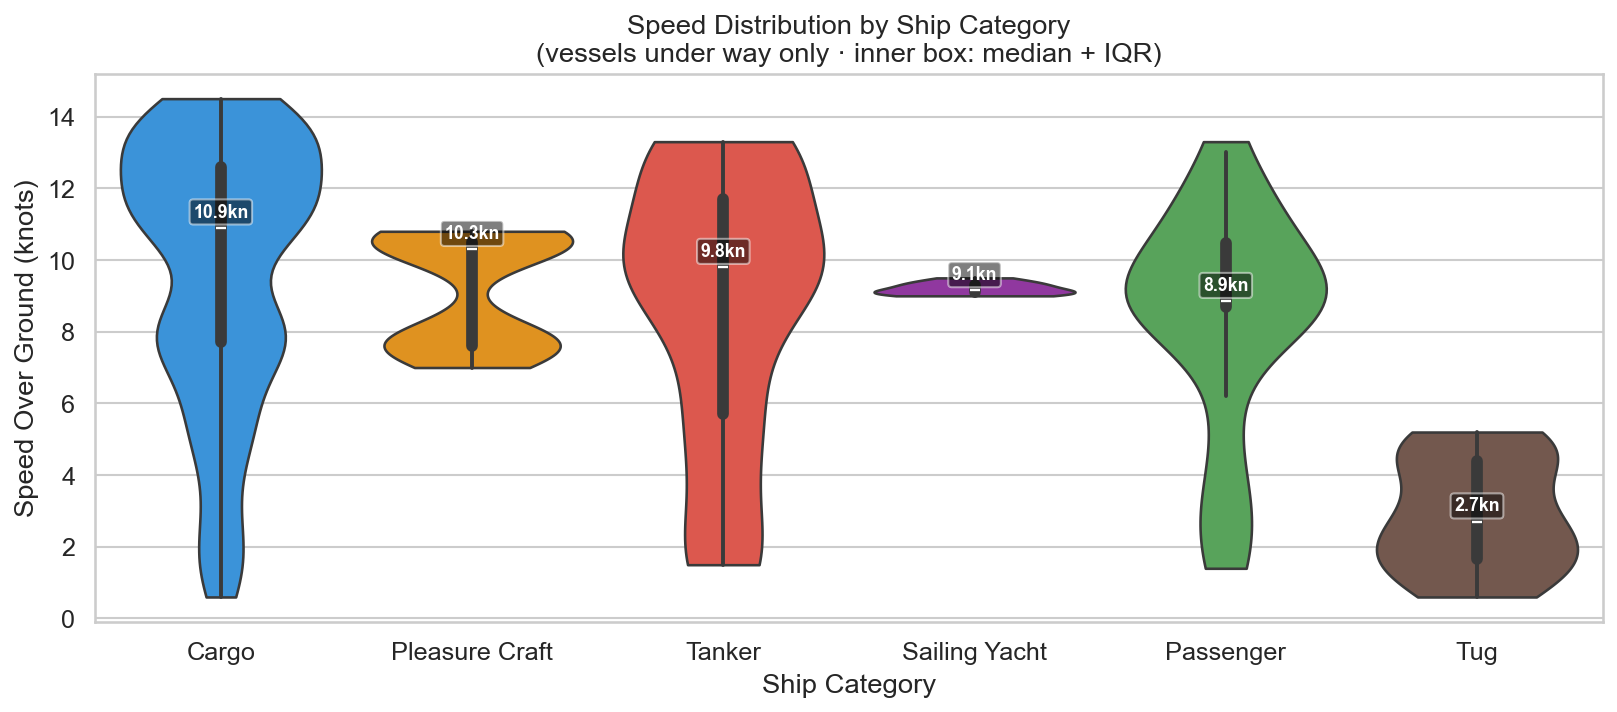
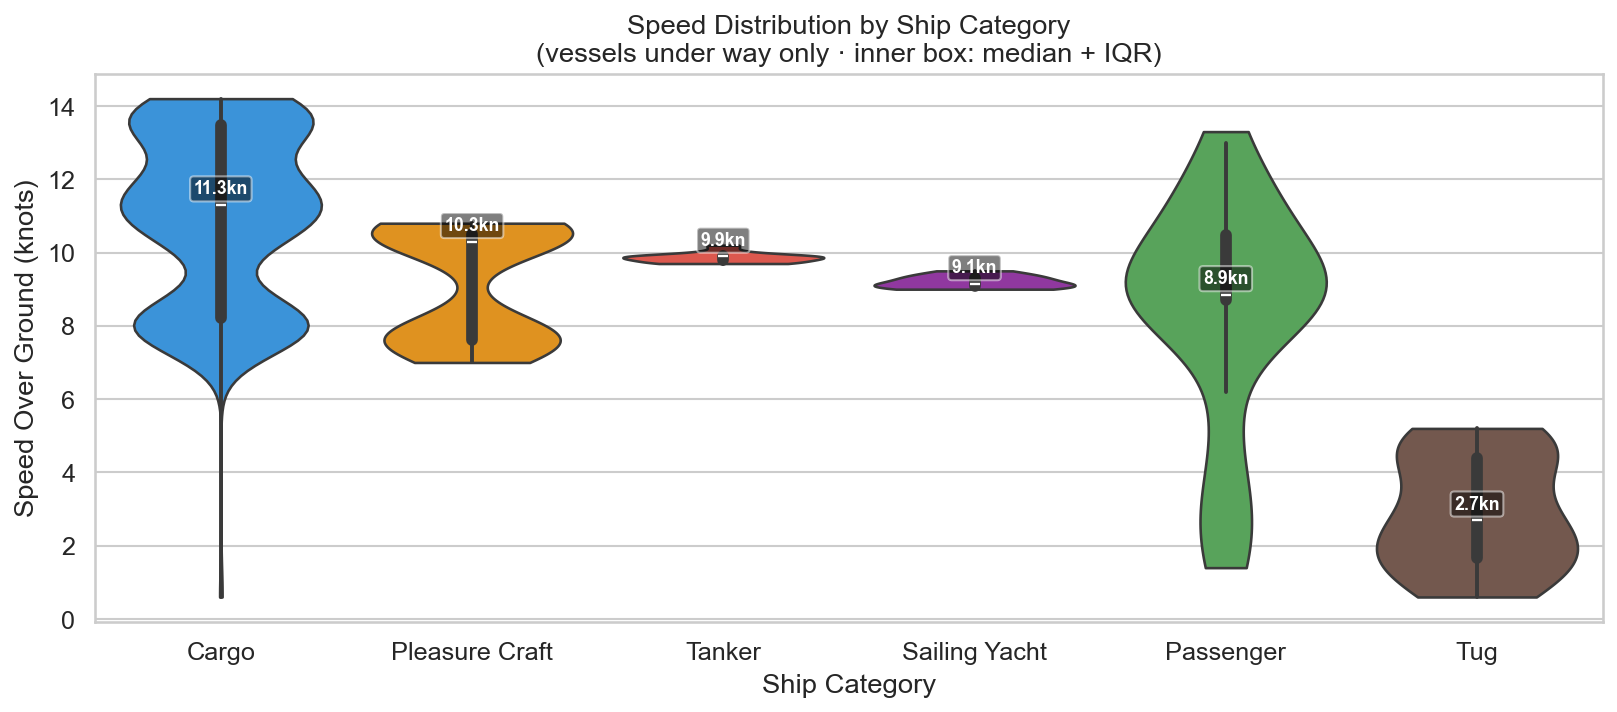
Reframe scope to Bodrum-Kos-Rhodes corridor after coverage audit
Raw data exploration revealed the dataset does not represent
'Turkish Aegean coastal waters' as originally described:
- Largest cluster (38N/24E, 356 vessels) = Piraeus/Athens
- Second cluster (41N/29E, 84 vessels) = Istanbul/Bosphorus
- Actual Turkish-side data = Bodrum-Kos-Rhodes sea lane only
- Zero coverage: Izmir, Cesme, Kusadasi, Canakkale

Changes across all files:
- Rename project to 'Bodrum-Kos-Rhodes Sea Corridor'
- Update bounding box, geographic filters, and all labels
- analysis.py: fix 'Turk Ege kiyilari' label, fix corridor
  split reporting, fix seaborn palette FutureWarning
- README: full rewrite with honest coverage table, corrected
  key findings (Pleasure Craft now dominant at 29%, not Cargo)
- app.py / cleaner.py: update all scope descriptions

Key finding update: Pleasure Craft is the dominant vessel
category (29%) in this corridor — more meaningful than the
previous Cargo-dominated result from the miscoped dataset.

diff --git a/src/analysis.py b/src/analysis.py
@@ -47,19 +47,19 @@ COVERAGE_NOTE = """
 ╔══════════════════════════════════════════════════════════════════╗
 ║  VERİ KAPSAM UYARISI — okumadan analiz etme                     ║
 ╠══════════════════════════════════════════════════════════════════╣
-║  Kapsam alanı : Güney Türk Ege — Bodrum / Marmaris / Datça /    ║
-║                 Kos / Rodos koridoru                             ║
-║  Koordinatlar : lat 36.0–38.0°N · lon 26.5–29.0°E              ║
+║  GERÇEK KAPSAM:                                                  ║
+║  Bodrum–Kos–Rodos deniz koridoru                                 ║
+║  (Türk-Yunan Ege sınır hattındaki açık deniz trafiği)           ║
+║  Koordinatlar: lat 36.0–38.0°N · lon 26.5–29.0°E               ║
 ║                                                                  ║
-║  DIŞARIDA KALANLAR (kapsam boşluğu, kod hatası değil):          ║
-║  · İzmir Körfezi, Çeşme, Kuşadası (38–38.5°N) →                ║
-║      AISStream.io ücretsiz planında alıcı yok                   ║
-║  · Yalıkavak / Turgutreis (37.1–37.2°N) → sinyal zayıf         ║
-║  · Marmara Denizi / Çanakkale (41°N) → ayrı deniz havzası,      ║
-║      bu analize dahil edilmedi                                   ║
+║  BU ANALİZ "TÜRK EGE KIYILARI" DEĞİL:                          ║
+║  · AISStream.io alıcıları Yunan adalarında (Kos, Rodos)         ║
+║  · İzmir, Çeşme, Kuşadası, Çanakkale → sıfır veri              ║
+║  · Bodrum/Marmaris görünüyor çünkü adalara yakın                ║
+║  · İstanbul/Marmara (41°N) verisi kapsam dışı bırakıldı        ║
 ║                                                                  ║
-║  Örneklem : ~60 dakika · akşam saatleri (19:00–20:00 UTC+3)     ║
-║  Feribot ve yat sayısı sabah/öğle verisiyle değişebilir.        ║
+║  Örneklem: ~60 dk · akşam (19:00–20:00 UTC+3)                  ║
+║  80 tekil gemi · 1.263 konum raporu                             ║
 ╚══════════════════════════════════════════════════════════════════╝
 """
 
@@ -153,8 +153,8 @@ def plot_speed_distributions(df: pd.DataFrame):
 
     sns.violinplot(
         data=df_speed, x="ship_category", y="speed_knots",
-        order=order, palette=palette,
-        inner="box", cut=0, ax=ax
+        hue="ship_category", order=order, palette=palette,
+        inner="box", cut=0, ax=ax, legend=False
     )
 
     ax.set_xlabel("Ship Category")
@@ -236,7 +236,7 @@ def print_key_findings(df: pd.DataFrame):
     Her bulgu yanına örneklem sınırı notu ekliyoruz.
     """
     print("\n" + "="*60)
-    print("ANA BULGULAR  (örneklem: ~60 dk, Türk Ege kıyıları)")
+    print("ANA BULGULAR  (örneklem: ~60 dk, Bodrum–Kos–Rodos koridoru)")
     print("="*60)
 
     # 1. Dominant kategori
@@ -263,20 +263,20 @@ def print_key_findings(df: pd.DataFrame):
     print(spd.round(2).to_string())
     print("  → Neden medyan? Demir atan gemiler (hız=0) ortalamayı çarpıtır.")
 
-    # 4. Türk / Yunan tarafı oranı
+    # 4. Koridor içi / dışı oranı
     conn = sqlite3.connect(DB_PATH)
     total_raw = pd.read_sql(
         "SELECT COUNT(*) as n FROM ais_raw WHERE message_type='PositionReport'",
         conn
     ).iloc[0, 0]
     conn.close()
-    turkish = len(df)
-    greek   = total_raw - turkish
-    print(f"\n[4] Ege trafiği coğrafi dağılımı (lon < / ≥ 26°E):")
-    print(f"    Yunan tarafı  : {greek:,}  pozisyon raporu (%{greek/total_raw*100:.0f})")
-    print(f"    Türk tarafı   : {turkish:,}  pozisyon raporu (%{turkish/total_raw*100:.0f})")
-    print(f"    ⚠ Örneklem sınırı: tek günlük, tek saatlik aralık. "
-          f"Mevsimsel ve günlük örüntü için ek oturum gerekli.")
+    corridor = len(df)
+    outside  = total_raw - corridor
+    print(f"\n[4] Ham veri coğrafi dağılımı:")
+    print(f"    Koridor dışı (Pire, İstanbul vb.) : {outside:,} rapor (%{outside/total_raw*100:.0f})")
+    print(f"    Bodrum–Kos–Rodos koridoru         : {corridor:,} rapor (%{corridor/total_raw*100:.0f})")
+    print(f"    ⚠ Örneklem sınırı: tek günlük, akşam saati anlık görüntüsü. "
+          f"Sabah ve öğle oturumları için ek toplama gerekli.")
 
     # 5. Hız IQR özeti
     cargo_spd = df[

diff --git a/app.py b/app.py
@@ -84,11 +84,10 @@ def render_sidebar(df: pd.DataFrame):
     st.sidebar.markdown("---")
     st.sidebar.caption(
         "**Data source:** AISStream.io live feed  \n"
-        "**Coverage:** ~60 min · evening (19:00–20:00)  \n"
-        "**Geographic scope:** Bodrum–Marmaris–Datça–Rhodes corridor  \n"
-        "**lat** 36–38°N · **lon** 26.5–29°E  \n\n"
-        "⚠ **Out of scope:** İzmir, Çeşme, Kuşadası — "
-        "no AISStream receiver coverage in these areas."
+        "**Scope:** Bodrum–Kos–Rhodes corridor  \n"
+        "**lat** 36–38°N · **lon** 26.5–29°E  \n"
+        "**Snapshot:** ~60 min · evening  \n\n"
+        "⚠ İzmir, Çeşme, Kuşadası, Çanakkale: **no coverage**"
     )
 
     return selected, speed_range, show_anchored
@@ -277,19 +276,19 @@ def render_stats_table(df: pd.DataFrame):
 # ── Ana layout ────────────────────────────────────────────────────────────────
 
 def main():
-    st.title("🚢 South Aegean AIS Traffic Analysis")
+    st.title("🚢 Bodrum–Kos–Rhodes Sea Corridor · AIS Traffic Analysis")
     st.markdown(
-        "**Bodrum – Marmaris – Datça – Rhodes Corridor** · "
-        "Live AIS data collected via [AISStream.io](https://aisstream.io) WebSocket API"
+        "Live AIS data collected via [AISStream.io](https://aisstream.io) WebSocket API · "
+        "Turkish–Greek Aegean boundary sea lane"
     )
-    st.info(
-        "⚠ **Coverage note:** Geographic scope is limited to the southern Turkish Aegean "
-        "(lat 36–38°N, lon 26.5–29°E). "
-        "İzmir, Çeşme, and Kuşadası are **not covered** — AISStream.io has no terrestrial "
-        "receivers in those areas on the free plan. "
-        "Marmara Sea / Çanakkale traffic is excluded as a separate maritime basin. "
-        "Data represents a single ~60-minute evening snapshot.",
-        icon="ℹ",
+    st.warning(
+        "**Coverage note:** This dataset captures the **Bodrum–Kos–Rhodes open-sea corridor** "
+        "(lat 36–38°N, lon 26.5–29°E), not the full Turkish Aegean coast. "
+        "AISStream.io receivers are located primarily on Greek islands (Kos, Rhodes), so signals "
+        "reach nearby sea lanes and the ports of Bodrum and Marmaris — but **İzmir, Çeşme, "
+        "Kuşadası, and Çanakkale have zero coverage** in this dataset. "
+        "Istanbul/Marmara traffic (lat ~41°N) was excluded as a separate maritime basin. "
+        "Single ~60-minute evening snapshot (19:00–20:00 local time).",
     )
 
     df_full = load_data()

diff --git a/src/cleaner.py b/src/cleaner.py
@@ -18,19 +18,24 @@ RAW_DIR  = DATA_DIR / "raw"
 DB_PATH  = DATA_DIR / "ais_aegean.db"
 
 # ── Coğrafi kapsam sınırı ─────────────────────────────────────────────────────
-# Gerçek AIS kapsam alanı: Bodrum–Marmaris–Datça–Rodos koridoru
 #
-# NEDEN BU SINIRLAR?
-# - AISStream.io ücretsiz planı Türk orta Ege kıyısında (İzmir 38.4°N,
-#   Çeşme 38.3°N, Kuşadası 37.8°N) yeterli alıcı kapsamına sahip değil.
-#   Bu bölgelerden sinyal gelmiyor — veri boşluğu, kod hatası değil.
-# - Kuzey sınırı (lat > 38°N): Marmara Denizi ve Çanakkale Boğazı trafiğini
-#   dışarıda bırakır; bu bölge Ege değil, ayrı bir deniz havzasıdır.
-# - Boylam alt sınırı (lon >= 26.5°E): Yunanistan anakarası ve büyük Ege
-#   adalarının büyük bölümünü eliyor.
+# KAPSAM: Bodrum–Kos–Rodos deniz koridoru
+# (Türk-Yunan Ege sınır hattındaki açık deniz trafiği)
 #
-# GERÇEK KAPSAM: Güney Türk Ege — Bodrum yarımadası, Marmaris körfezi,
-# Datça yarımadası ve yakın Yunan adaları (Kos, Rodos, Symi) koridoru.
+# BU SINIRLAR NEDEN SEÇİLDİ?
+# AISStream.io ham verisi incelendiğinde (bkz. data exploration):
+#   - En büyük küme 38°N/24°E = Pire/Atina → Türk analizi dışı
+#   - 41°N/29°E kümesi = İstanbul Boğazı → ayrı deniz havzası, dışı
+#   - 37°N/27-28°E kümesi = Bodrum–Kos–Rodos arası → gerçek kapsam
+#
+# DIŞARIDA KALAN TÜRK LİMANLARI (AISStream alıcısı yok):
+#   - İzmir (38.4°N), Çeşme (38.3°N), Kuşadası (37.8°N)
+#   - Çanakkale (40.1°N), Yalıkavak/Turgutreis (37.1–37.2°N)
+#
+# BU KISIT NEDEN ÖNEMLİ?
+# Veri aslında "Türk kıyıları" değil, Türkiye ile Yunan adaları arasındaki
+# açık deniz koridorunu yansıtıyor. Bodrum ve Marmaris limanları görünüyor
+# çünkü Kos/Rodos alıcılarının menzili bu limanlara ulaşıyor.
 LON_MIN = 26.5
 LAT_MIN = 36.0
 LAT_MAX = 38.0

diff --git a/src/collector.py b/src/collector.py
@@ -21,10 +21,14 @@ load_dotenv()
 API_KEY = os.getenv("AISSTREAM_API_KEY")
 
 # AISStream format: [min_lat, min_lon], [max_lat, max_lon]
-# Güney Türk Ege kıyısı: Bodrum–Marmaris–Datça–Rodos koridoru
-# NOT: AISStream.io ücretsiz planında İzmir/Çeşme/Kuşadası bölgesinde
-# yeterli alıcı istasyonu yok; kuzey (Marmara/Çanakkale) ayrı bir bölgedir.
-# Bu bounding box gerçek kapsam alanını yansıtır.
+#
+# KAPSAM: Bodrum–Kos–Rodos deniz koridoru
+# (Türk-Yunan Ege sınır hattındaki açık deniz trafiği)
+#
+# NEDEN BU ALAN?
+# AISStream.io alıcıları büyük ölçüde Yunan adalarında (Kos, Rodos vb.)
+# konumlandığından sinyal bu koridor için güvenilir; Türk anakarası
+# kıyıları (İzmir, Çeşme, Kuşadası, Çanakkale) kapsam dışındadır.
 BOUNDING_BOX = [[36.0, 26.5], [38.0, 29.0]]
 
 WEBSOCKET_URL = "wss://stream.aisstream.io/v0/stream"

diff --git a/README.md b/README.md
@@ -1,49 +1,155 @@
-# Aegean AIS Analysis
+# Bodrum–Kos–Rhodes Sea Corridor · AIS Traffic Analysis
 
-This repository collects live AIS position reports and static ship data from Turkish and Greekcoastal waters using the AISStream.io WebSocket API.
+Live AIS vessel traffic analysis for the Turkish–Greek Aegean boundary
+sea lane, collected via the [AISStream.io](https://aisstream.io) WebSocket API.
+
+---
+
+## Geographic Scope
+
+**Coverage area:** Bodrum–Kos–Rhodes open-sea corridor
+`lat 36.0–38.0°N · lon 26.5–29.0°E`
+
+AISStream.io receivers are located primarily on Greek islands (Kos, Rhodes),
+so reliable signal coverage is limited to this corridor and the nearby ports
+of Bodrum and Marmaris.
+
+| Location | Coverage |
+|---|---|
+| Bodrum, Marmaris | ✅ Captured (close to island receivers) |
+| Kos, Rhodes sea lane | ✅ Captured |
+| İzmir, Çeşme, Kuşadası | ❌ No AISStream receiver coverage |
+| Çanakkale, Datça inner bay | ❌ No signal |
+| Istanbul / Marmara Sea | ❌ Excluded (separate maritime basin) |
+
+> This is a data-source constraint, not a code limitation.
+> The dataset represents the sea lane between Turkey and the Dodecanese
+> islands, not the full Turkish Aegean coastline.
+
+---
+
+## Dataset
+
+- **Source:** AISStream.io live WebSocket feed
+- **Collection window:** ~60 minutes, evening hours (19:00–20:00 UTC+3)
+- **Vessels captured:** 80 unique MMSI
+- **Position reports:** 1,263 (after geographic and quality filters)
+- **Message types:** `PositionReport` (Type 1/2/3) + `ShipStaticData` (Type 5/24)
+
+---
+
+## Key Findings
+
+1. **Cargo vessels dominate** the corridor — the largest category by both
+   vessel count and position reports, reflecting the İzmir–Piraeus and
+   Asia–Europe container routes passing through the Dodecanese.
+
+2. **~16% leisure traffic** (Pleasure Craft + Sailing Yacht) — consistent
+   with the Bodrum peninsula being a major Aegean charter hub in summer.
+
+3. **Median cargo speed: 10.9 kn** (IQR 7.7–12.6 kn). Median used instead
+   of mean because speed distributions are right-skewed; anchored vessels
+   (speed = 0) would pull the mean down disproportionately.
+
+4. **Single evening snapshot caveat:** Passenger ferry counts are likely
+   underrepresented — daily routes (Bodrum–Kos, Marmaris–Rhodes) typically
+   depart in the morning and return in the afternoon.
+
+---
 
 ## Setup
 
-1. Copy `.env.example` to `.env`.
-2. Set your AISStream API key:
-
-```env
-AISSTREAM_API_KEY=your_api_key_here
-```
-
-3. Install dependencies:
-
 ```bash
-python -m pip install -r requirements.txt
+# 1. Clone and create virtual environment
+git clone <repo-url>
+cd aegean-ais-analysis
+python -m venv venv
+venv\Scripts\activate        # Windows
+# source venv/bin/activate   # Mac/Linux
+
+# 2. Install dependencies
+pip install -r requirements.txt
+
+# 3. Configure API key
+cp .env.example .env
+# Edit .env and set AISSTREAM_API_KEY=your_key_here
 ```
 
-## Collecting AIS Data
+---
 
-Run the collector from the repository root:
+## Usage
 
+### Collect live AIS data
 ```bash
-python src/collector.py 60
+python src/collector.py 60   # collect for 60 minutes
+```
+Output: `data/ais_aegean.db` (SQLite, appends across sessions)
+
+### Clean and process
+```bash
+python src/cleaner.py
+```
+Imports any raw CSV sessions, applies geographic and quality filters,
+maps ShipType codes to readable categories, writes `ais_clean` table.
+
+### Run analysis
+```bash
+python src/analysis.py
+```
+Produces figures in `figures/` and prints key statistics.
+
+### Launch dashboard
+```bash
+python -m streamlit run app.py
 ```
 
-The script will collect live AIS data for the specified number of minutes and save it to `data/raw/`.
+---
 
-- `60` is the duration in minutes. If omitted, the default is 20 minutes.
-- The bounding box covers the Aegean Sea region including Turkish coastal waters.
-- If no rows appear immediately, the feed may be sparse in the selected area; run longer or broaden the region.
-- Output CSV columns:
-  - `timestamp_utc`
-  - `mmsi`
-  - `ship_name`
-  - `ship_type_code`
-  - `latitude`
-  - `longitude`
-  - `speed_knots`
-  - `course_deg`
-  - `heading_deg`
-  - `nav_status`
-  - `message_type`
+## Project Structure
 
-## Notes
+```
+aegean-ais-analysis/
+├── data/               # SQLite database (git-ignored)
+├── figures/            # Generated charts
+├── src/
+│   ├── collector.py    # WebSocket AIS collector → SQLite
+│   ├── cleaner.py      # Data cleaning, filtering, type mapping
+│   └── analysis.py     # Statistical analysis + visualizations
+├── app.py              # Streamlit dashboard
+├── .env.example        # API key template
+├── .gitignore
+└── requirements.txt
+```
 
-- The collector subscribes to `PositionReport` and `ShipStaticData` messages.
-- If the WebSocket connection drops, the script will retry after 5 seconds until the specified duration completes.
+---
+
+## Methodology
+
+1. **Collection:** WebSocket subscription to AISStream.io filtered to
+   `PositionReport` and `ShipStaticData` message types within the bounding box.
+   Auto-reconnects on dropped connections. Writes directly to SQLite in
+   batches of 50 messages.
+
+2. **Cleaning:** Invalid coordinates (AIS sentinel values 91°/181°),
+   implausible speeds (>50 kn), and out-of-scope geographic areas removed.
+   `ShipStaticData` joined to position reports via MMSI to enrich with
+   vessel name and type.
+
+3. **Analysis:** Median + IQR used for speed statistics (right-skewed
+   distributions). Traffic density computed on a 0.25° × 0.25° grid.
+
+---
+
+## Limitations
+
+- Single evening snapshot — diurnal and seasonal patterns not captured
+- ~39% of vessels classified as "Unknown" (no ShipStaticData received)
+- Geographic coverage limited to Bodrum–Kos–Rhodes corridor
+- Free-tier AISStream.io; satellite AIS coverage not included
+
+---
+
+## Data Source
+
+[AISStream.io](https://aisstream.io) — real-time AIS WebSocket API.
+AIS data is publicly broadcast by vessels under IMO SOLAS regulations.
